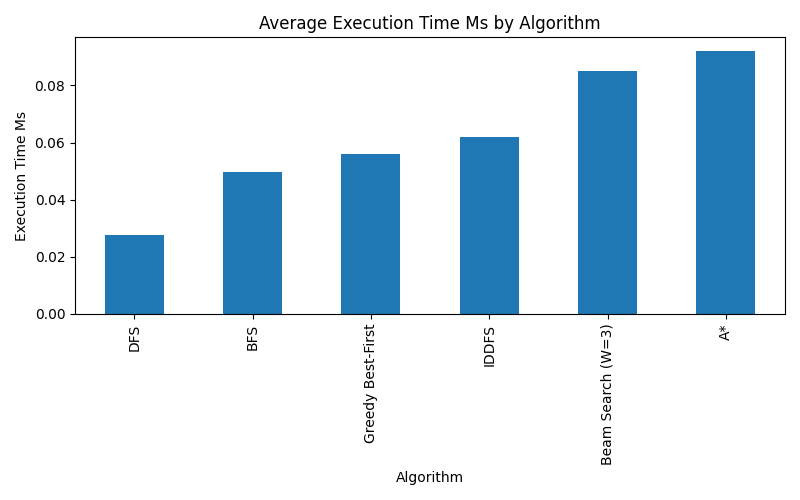
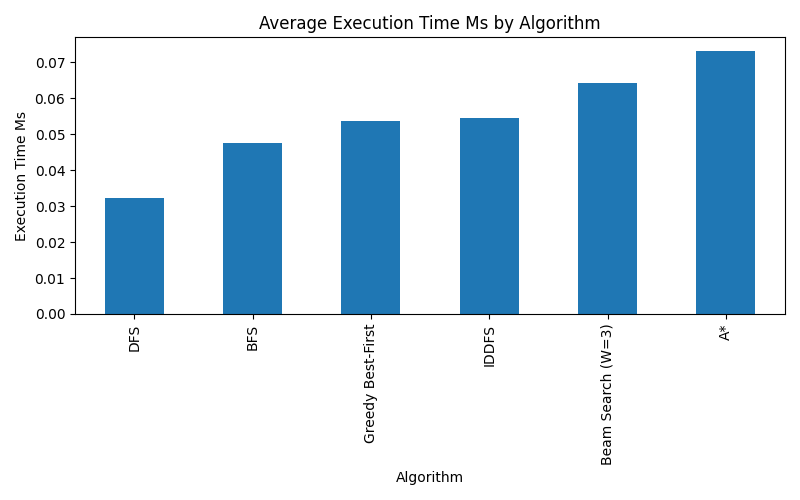
Commit 32 - Added graphs of time taken by every algorithm

diff --git a/app.py b/app.py
@@ -9,6 +9,8 @@ from src.grid import WordSearchGrid
 from src.benchmark import BenchmarkRunner
 from src.visualiser import ResultVisualiser
 from src.manual_input import load_grid_from_lines
+from matplotlib.backends.backend_tkagg import FigureCanvasTkAgg
+from matplotlib.figure import Figure
 
 
 class WordSearchAIApp:
@@ -158,6 +160,30 @@ class WordSearchAIApp:
 
         self.results_table.pack(fill="both", expand=True, pady=5)
         self.results_table.bind("<<TreeviewSelect>>", self.on_result_selected)
+        
+        tk.Label(right_frame, text="Graph Preview", font=("Arial", 12, "bold")).pack(anchor="w", pady=(10, 0))
+
+        self.graph_metric = tk.StringVar(value="execution_time_ms")
+
+        graph_options = ttk.Combobox(
+            right_frame,
+            textvariable=self.graph_metric,
+            values=[
+                "execution_time_ms",
+                "nodes_expanded",
+                "states_generated",
+                "max_frontier_size"
+            ],
+            state="readonly",
+            width=30
+        )
+        graph_options.pack(anchor="w", pady=5)
+        graph_options.bind("<<ComboboxSelected>>", self.update_graph_preview)
+
+        self.graph_frame = tk.Frame(right_frame)
+        self.graph_frame.pack(fill="both", expand=True, pady=5)
+
+        self.graph_canvas = None
 
         graph_button_frame = tk.Frame(right_frame)
         graph_button_frame.pack(pady=10)
@@ -237,6 +263,7 @@ class WordSearchAIApp:
             visualiser.plot_metric_by_algorithm(df, "max_frontier_size", "gui_frontier_comparison.png")
 
             self.populate_table(df)
+            self.update_graph_preview()
 
             self.status_label.config(
                 text="Benchmark complete. Select a result to view its path.",
@@ -413,6 +440,38 @@ class WordSearchAIApp:
             os.startfile(results_path)
         except AttributeError:
             messagebox.showinfo("Results Folder", results_path)
+            
+    def update_graph_preview(self, event=None):
+        if self.latest_df is None:
+            return
+
+        metric = self.graph_metric.get()
+
+        for widget in self.graph_frame.winfo_children():
+            widget.destroy()
+
+        grouped = (
+            self.latest_df
+            .groupby("algorithm")[metric]
+            .mean()
+            .sort_values()
+        )
+
+        fig = Figure(figsize=(5.8, 3.2), dpi=100)
+        ax = fig.add_subplot(111)
+
+        grouped.plot(kind="bar", ax=ax)
+
+        ax.set_title(f"Average {metric.replace('_', ' ').title()}")
+        ax.set_xlabel("Algorithm")
+        ax.set_ylabel(metric.replace("_", " ").title())
+        ax.tick_params(axis="x", rotation=35)
+
+        fig.tight_layout()
+
+        self.graph_canvas = FigureCanvasTkAgg(fig, master=self.graph_frame)
+        self.graph_canvas.draw()
+        self.graph_canvas.get_tk_widget().pack(fill="both", expand=True)
 
 
 def main():
